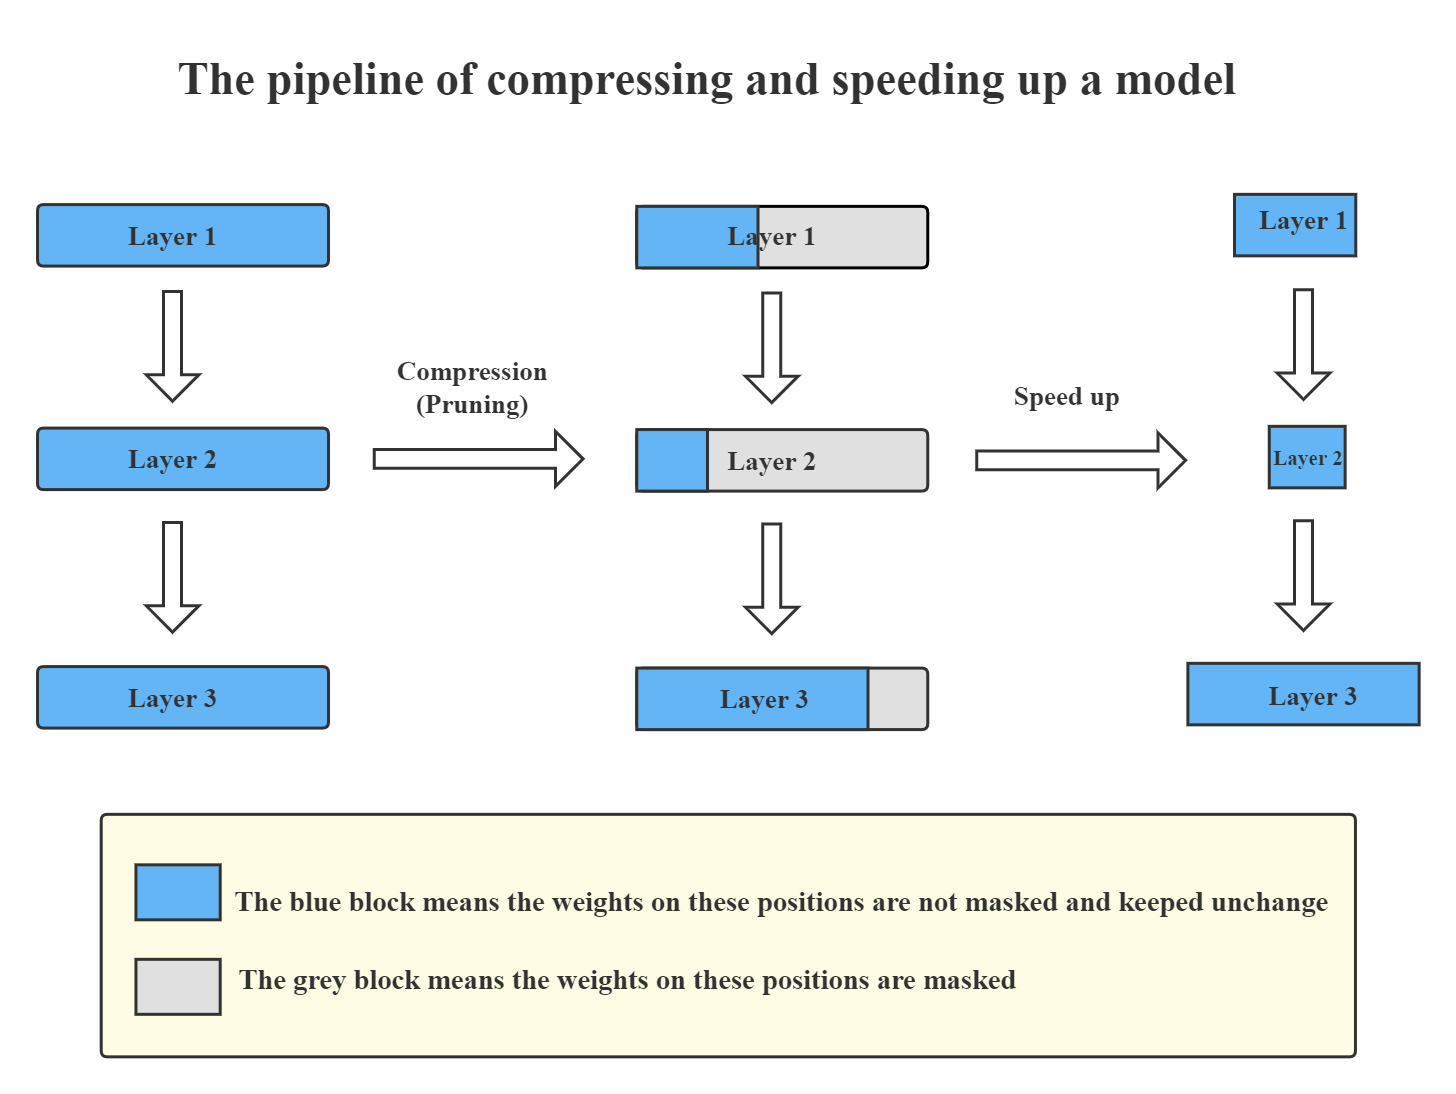
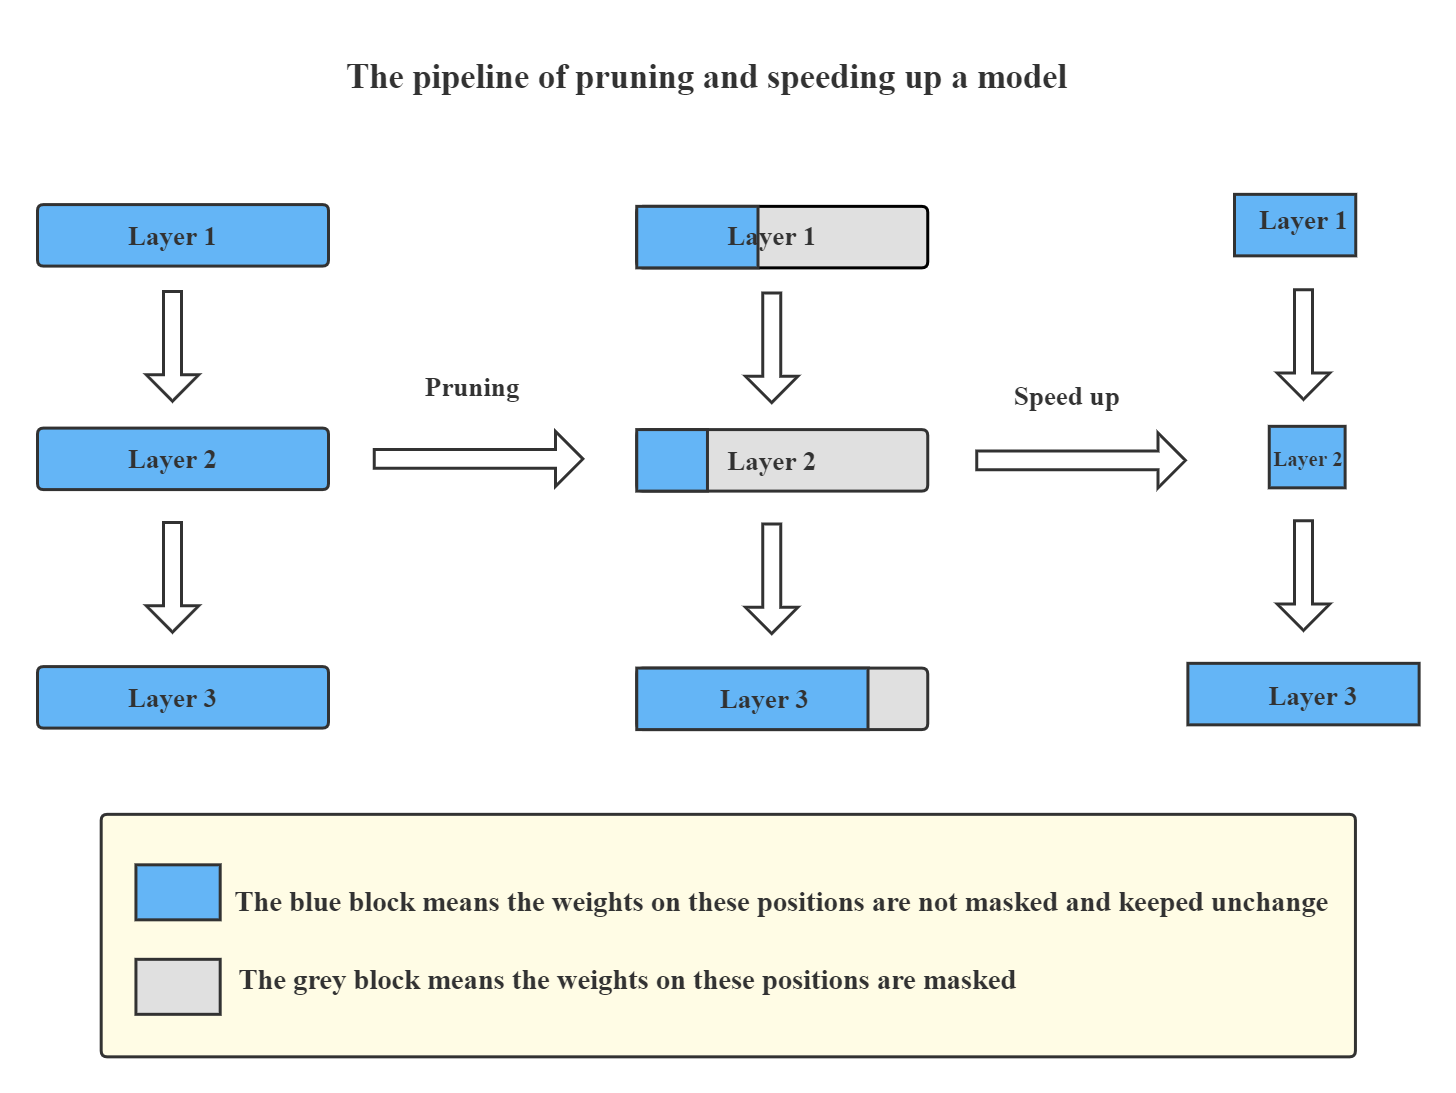
modify according to nishang advice

diff --git a/docs/source/compression/overview.rst b/docs/source/compression/overview.rst
@@ -1,7 +1,7 @@
 Model Compression Overview
 ==========================
 
-Deep neural networks (DNNs) have achieved great success in many tasks like image recognition and language translation.
+Deep neural networks (DNNs) have achieved great success in many tasks like embedded development and scenarios that needs rapid feedbacks.
 However, typical neural networks are both computationally expensive and energy-intensive,
 which can be difficult to be deployed on devices with low computation resources or with strict latency requirements.
 Therefore, a natural thought is to perform model compression to reduce model size and accelerate model training/inference without losing performance significantly.
@@ -25,11 +25,11 @@ On the other hand, users could easily customize their new compression algorithms
 
 There are several core features supported by NNI model compression:
 
-* Supports many popular pruning and quantization algorithms.
-* Automates model pruning and quantization process with state-of-the-art strategies and NNI's auto tuning power.
-* Speeds up a compressed model to make it have lower inference latency and also make it smaller.
-* Provides friendly and easy-to-use compression utilities for users to dive into the compression process and results.
-* Concises interface for users to customize their own compression algorithms.
+* Support many popular pruning and quantization algorithms.
+* Automate model pruning and quantization process with state-of-the-art strategies and NNI's auto tuning power.
+* Speed up a compressed model to make it have lower inference latency and also make it smaller.
+* Provide friendly and easy-to-use compression utilities for users to dive into the compression process and results.
+* Concise interface for users to customize their own compression algorithms.
 
 
 Compression Pipeline
@@ -39,18 +39,13 @@ Compression Pipeline
    :target: ../../img/compression_flow.jpg
    :alt: 
 
-The overall compression pipeline in NNI is shown above. For compressing a pretrained model, pruning and quantization can be used alone or in combination. 
+The overall compression pipeline in NNI is shown above. For compressing a pretrained model, pruning and quantization can be used alone or in combination.
+If users want to apply both, a sequential mode is recommended as common practise.
 
 .. note::
-  Note that NNI compression algorithms are not meant to compress model but for applying masks on weights. Whereas NNI’s speedup tool can truly compress model and reduce latency.
-  To obtain a truly compact model, users should conduct :doc:`model speedup <../tutorials/pruning_speed_up>`. The following figure shows how compression and speeding up work on your models.
+  Note that NNI pruners or quantizers are not meant to physically compact the model but for simulating the compression effect. Whereas NNI speedup tool can truly compress model by changing the network architecture and therefore reduce latency.
+  To obtain a truly compact model, users should conduct :doc:`pruning speedup <../tutorials/pruning_speed_up>` or :doc:`quantizaiton speedup <../tutorials/quantization_speed_up>`. 
   The interface and APIs are unified for both PyTorch and TensorFlow. Currently only PyTorch version has been supported, and TensorFlow version will be supported in future.
-
-
-.. image:: ../../img/pipeline_compress.jpg
-   :target: ../../img/pipeline_compress.jpg
-   :alt:
-
 
 
 Supported Algorithms
@@ -134,6 +129,14 @@ Model Speedup
 The final goal of model compression is to reduce inference latency and model size.
 However, existing model compression algorithms mainly use simulation to check the performance (e.g., accuracy) of compressed model.
 For example, using masks for pruning algorithms, and storing quantized values still in float32 for quantization algorithms.
-Given the output masks and quantization bits produced by those algorithms, NNI can really speed up the model.
+Given the output masks and quantization bits produced by those algorithms, NNI can really speed up the model. The following figure shows how NNI prunes and speeds up your models. 
+
+
+.. image:: ../../img/pipeline_compress.jpg
+   :target: ../../img/pipeline_compress.jpg
+   :alt:
+
+
+
 The detailed tutorial of Speed Up Model with Mask can be found :doc:`here <../tutorials/pruning_speed_up>`.
 The detailed tutorial of Speed Up Model with Calibration Config can be found :doc:`here <../tutorials/quantization_speed_up>`.
